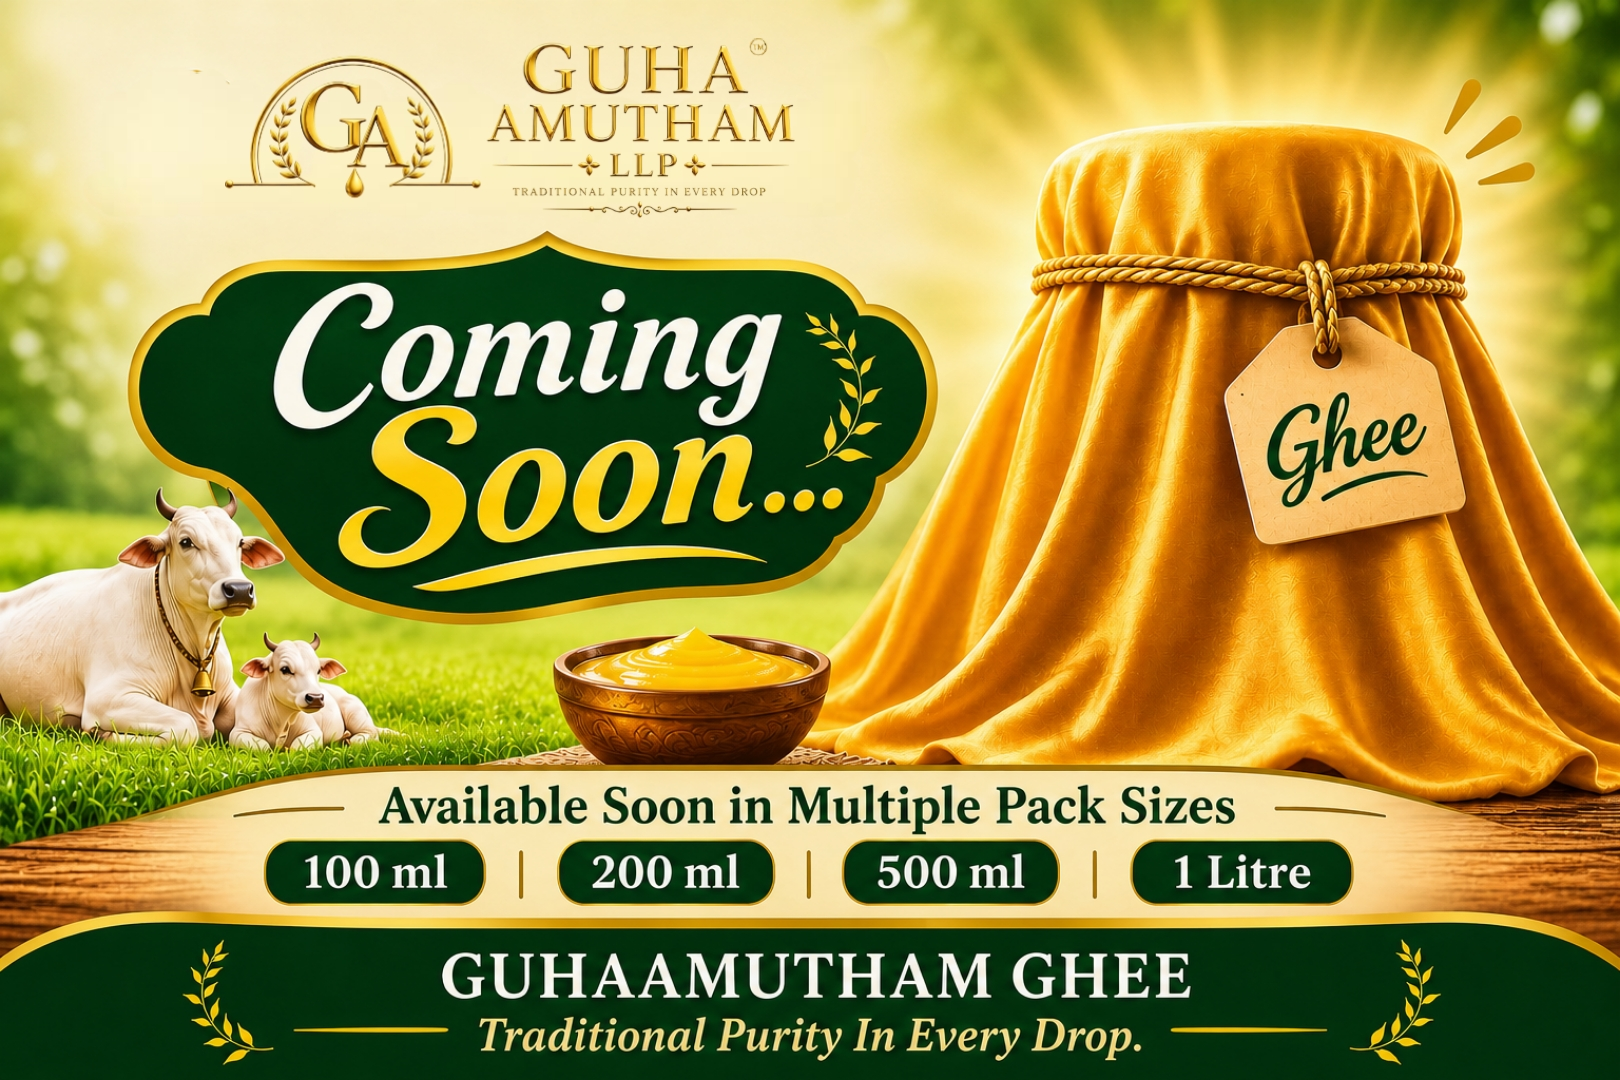
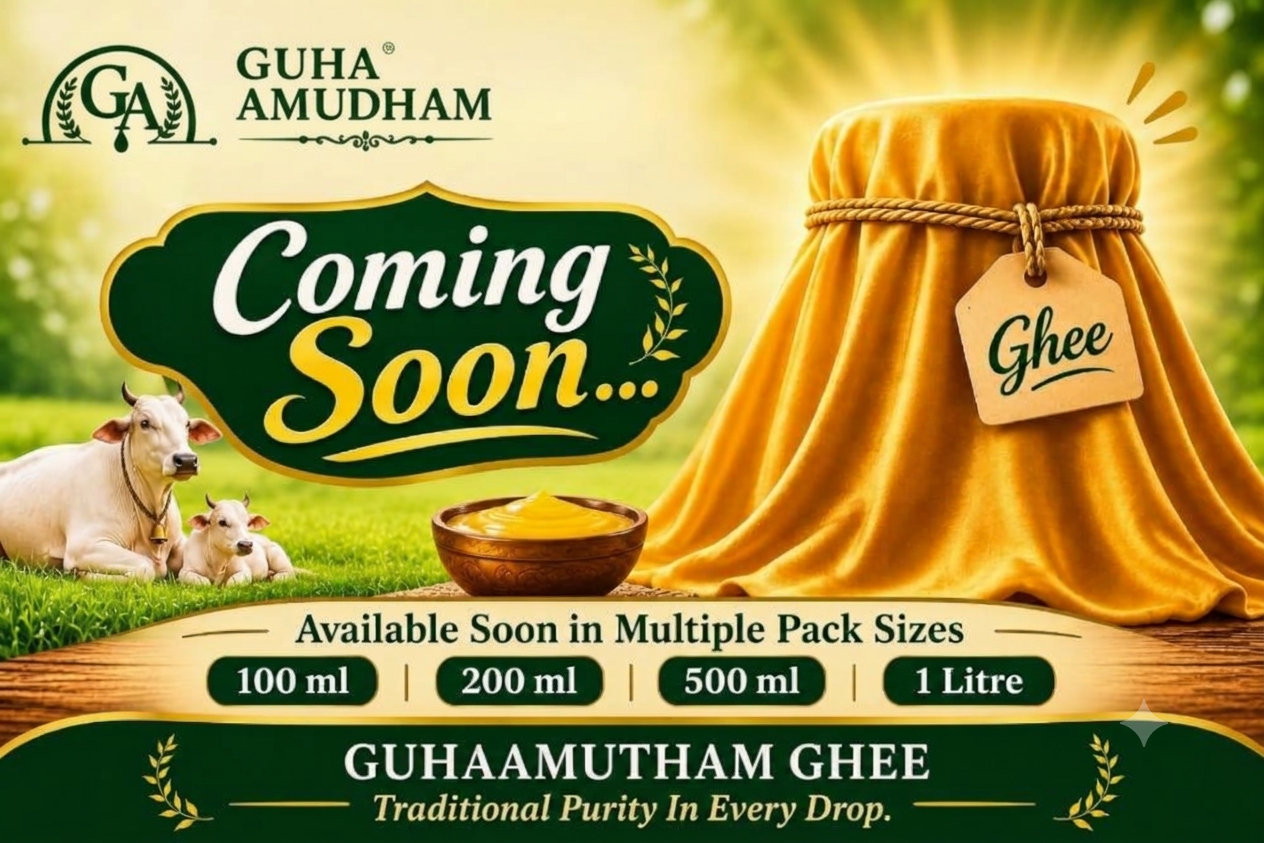
changed logo2

diff --git a/assets/css/style.css b/assets/css/style.css
@@ -220,11 +220,11 @@ p {
 }
 
 .hd .logo-secondary {
-  height: 86.0625px;
+  height: 73.153125px;
 }
 
 .ft .logo-secondary {
-  height: 114.75px;
+  height: 97.5375px;
 }
 
 .logo b {
@@ -1259,7 +1259,7 @@ textarea.bad {
   }
 
   .hd .logo .logo-secondary {
-    height: clamp(45.9px, 9.5625vw, 86.0625px) !important;
+    height: clamp(39.015px, 8.128125vw, 73.153125px) !important;
   }
 
   .hd .mb {
@@ -2980,7 +2980,7 @@ textarea.bad {
   }
 
   img[src*="logo-2"] {
-    height: 35px !important;
+    height: 29.75px !important;
   }
 }
 
@@ -2990,7 +2990,7 @@ textarea.bad {
   }
 
   .ft .logo .logo-secondary {
-    height: 86.0625px !important;
+    height: 73.153125px !important;
   }
 }
 
@@ -3000,7 +3000,7 @@ textarea.bad {
   }
 
   .ft .logo .logo-secondary {
-    height: 66.9375px !important;
+    height: 56.896875px !important;
   }
 }
 

diff --git a/index.html b/index.html
@@ -16,7 +16,7 @@
     <main id="ld">
       <div style="display: flex; justify-content: center; align-items: center; flex-direction: column;">
         <div><img src="assets/images/logo-1.png" alt="" style="height: 187.5px;"></div>
-        <div><img src="assets/images/logo-2 (2).png" alt="" style="height: 230px;"></div>
+        <div><img src="assets/images/logo-2 (1).png" alt="" style="height: 230px;"></div>
         <div class="bar2"></div>
       </div>
     </main>
